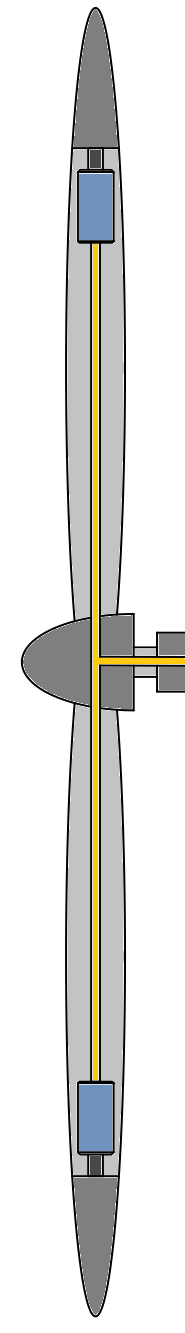
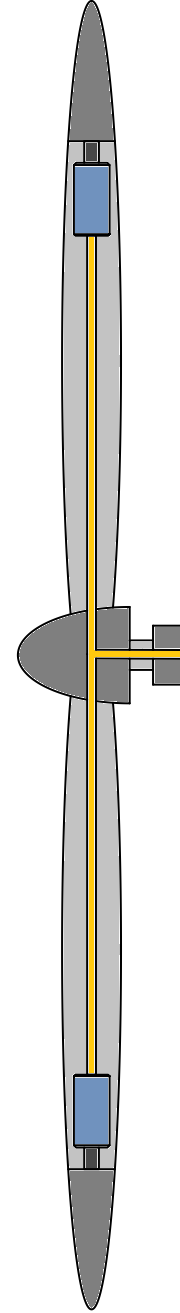
led bottoni e semafori
inseriti tutti i segnali visivi nella homepage. con i css e le posizioni
corrette

Changed region(s): [[0.0833, 0.0, 1.0, 0.9992], [0.5833, 0.0312, 0.6111, 0.0625]]

diff --git a/css/desktop.css b/css/desktop.css
@@ -1,6 +1,7 @@
 button{
 	border: none;
 }
+
 #plant{
 	background-image:url('../img/sfondoNavicella.png');
 	background-position: center;  
@@ -12,13 +13,53 @@ button{
 
 .valve{
 	position:absolute;
-	width: 71px;
-	height: 66px;
+	width: 72px;
+	height: 67px;
 	background-color: transparent;
 	background-repeat: no-repeat;
 	background-image: url('../img/Valve_Close.png');
-	background-size: 69px 64px;
+	background-size: 70px 66px;
 }
+
+.led_alarm{
+	position:absolute;
+	width: 20px;
+	height: 20px;
+	background-color: transparent;
+	background-repeat: no-repeat;
+	background-image: url('../img/rled_off.png');
+	background-size: 20px 20px;
+}
+
+.led_working{
+	position:absolute;
+	width: 20px;
+	height: 20px;
+	background-color: transparent;
+	background-repeat: no-repeat;
+	background-image: url('../img/gled_off.png');
+	background-size: 20px 20px;
+}
+
+.semaphore{
+	position:absolute;
+	width: 20px;
+	height: 20px;
+	background-color: transparent;
+	background-repeat: no-repeat;
+	background-image: url('../icon/light_blue.png');
+	background-size: 20px 20px;
+}
+
+.arrow{
+	position:absolute;
+	width: 25px;
+	height: 25px;
+	background-color: transparent;
+	background-repeat: no-repeat;
+	background-size: 25px 25px;
+}
+
 
 #valve_1 {
 	
@@ -54,10 +95,10 @@ button{
 	background-color: transparent;
 	background-repeat: no-repeat;
 	position:absolute;
-	margin-left:191px;
-	margin-top:221px;
+	margin-left:194px;
+	margin-top:226px;
 	background-image: url('../img/Brake_Open.png');
-	background-size: 20px 66px;
+	background-size: 18px 59px;
 }
 
 #spinholder{
@@ -66,10 +107,10 @@ button{
 	background-color: transparent;
 	background-repeat: no-repeat;
 	position:absolute;
-	margin-left:564px;
-	margin-top:408px;
+	margin-left:565px;
+	margin-top:410px;
 	background-image: url('../img/Spinholder_Open.png');
-	background-size: 66px 110px;
+	background-size: 66px 109px;
 }
 
 #flap_position{
@@ -78,8 +119,8 @@ button{
 	background-color: transparent;
 	background-repeat: no-repeat;
 	position:absolute;
-	margin-left:0px;
-	margin-top:2px;
+	margin-left:-5px;
+	margin-top:1px;
 	background-image: url('../img/Flap_Open.png');
 	background-size: 66px 510px;
 }
@@ -95,7 +136,7 @@ button{
 
 #cuscinetto_t2{
 	position:absolute;
-	margin-left:278px;
+	margin-left:279px;
 	margin-top: 213px;
 	font-size: 12px;
 	width: 33px;
@@ -106,9 +147,6 @@ button{
 	position:absolute;
 	margin-left:700px;
 	margin-top: 150px;
-	font-size: 12px;
-	width: 33px;
-	height: 20px;
 }
 
 #distr_t{
@@ -123,16 +161,13 @@ button{
 #ridut_lvl{
 	position:absolute;
 	margin-left:340px;
-	margin-top: 235px;
-	font-size: 12px;
-	width: 33px;
-	height: 20px;
+	margin-top: 265px;
 }
 
 #ridut_t{
 	position:absolute;
 	margin-left:340px;
-	margin-top: 265px;
+	margin-top: 235px;
 	font-size: 12px;
 	width: 33px;
 	height: 20px;
@@ -200,3 +235,61 @@ button{
 	width: 60px;
 	height: 25px;
 }
+
+#freno_FC_A{
+	position:absolute;
+	margin-left:210px;
+	margin-top: 180px;
+}
+
+#freno_FC_C{
+	position:absolute;
+	margin-left:210px;
+	margin-top: 205px;
+}
+
+#contadenti_1{
+	position:absolute;
+	margin-left:213px;
+	margin-top: 520px;
+}
+
+#contadenti_2{
+	position:absolute;
+	margin-left:250px;
+	margin-top: 520px;
+}
+
+#sensore_0{
+	position:absolute;
+	margin-left:70px;
+	margin-top: 520px;
+}
+
+#spin_motor_status{
+	position:absolute;
+	margin-left:488px;
+	margin-top: 545px;
+}
+
+#engine_status{
+	position:absolute;
+	margin-left:100px;
+	margin-top: 350px;
+	
+}
+
+#spin_dx{
+	position:absolute;
+	margin-left:519px;
+	margin-top: 568px;
+	background-image: url('../img/spin_dx_off.png');
+}
+
+#spin_sx{
+	position:absolute;
+	margin-left:488px;
+	margin-top: 568px;
+	background-image: url('../img/spin_sx_off.png');
+}
+

diff --git a/nuova.php b/nuova.php
@@ -61,9 +61,13 @@ if (isset($_SESSION['last_act']) && (time() - $_SESSION['last_act'] > $_CONFIG['
 			</div>
 		</span>
 		<span>
-			<a href="impianto.php">Pagina Impianto</a>
-			<a href="logout.php">Logout</a>
+			
 		</span>
+	</div>
+	
+	<div class=nav >
+		<a href="impianto.php">Pagina Impianto</a>
+		<a href="logout.php">Logout</a>
 	</div>
 	
 	<div class=section id=plant >
@@ -76,11 +80,9 @@ if (isset($_SESSION['last_act']) && (time() - $_SESSION['last_act'] > $_CONFIG['
 		<button type="button" id="spinholder" ></button>
 		<button type="button" id="flap_position" ></button>
 		
-		<input type="text" class="display_value" id="cuscinetto_t1" >
+		<input type="text" class="display_value" id="cuscinetto_t1" readonly >
 		<input type="text" class="display_value" id="cuscinetto_t2" readonly >
-		<input type="text" class="display_value" id="distr_lvl" readonly >
 		<input type="text" class="display_value" id="distr_t" readonly >
-		<input type="text" class="display_value" id="ridut_lvl" readonly >
 		<input type="text" class="display_value" id="ridut_t" readonly >
 		<input type="text" class="display_value" id="ridut_giri" readonly >
 		<input type="text" class="display_value" id="navicella_t" readonly >
@@ -90,7 +92,20 @@ if (isset($_SESSION['last_act']) && (time() - $_SESSION['last_act'] > $_CONFIG['
 		<input type="text" class="display_value" id="engine_prod" readonly >
 		<input type="text" class="display_value" id="wind-speed" readonly >
 		
-		<button type="button" id="distr_lvl" class="led" ></button>
+		<button type="button" id="distr_lvl" class="led_alarm" ></button>
+		<button type="button" id="ridut_lvl" class="led_alarm" ></button>
+		<button type="button" id="freno_FC_A" class="led_working" ></button>
+		<button type="button" id="freno_FC_C" class="led_working" ></button>
+		<button type="button" id="contadenti_1" class="led_working" ></button>
+		<button type="button" id="contadenti_2" class="led_working" ></button>
+		<button type="button" id="sensore_0" class="led_working" ></button>
+		
+		<button type="button" id="spin_motor_status" class="semaphore" ></button>
+		<button type="button" id="engine_status" class="semaphore" ></button>
+		
+		<button type="button" id="spin_dx" class="arrow" ></button>
+		<button type="button" id="spin_sx" class="arrow" ></button>
+		
 	</div>
 
 </body>
